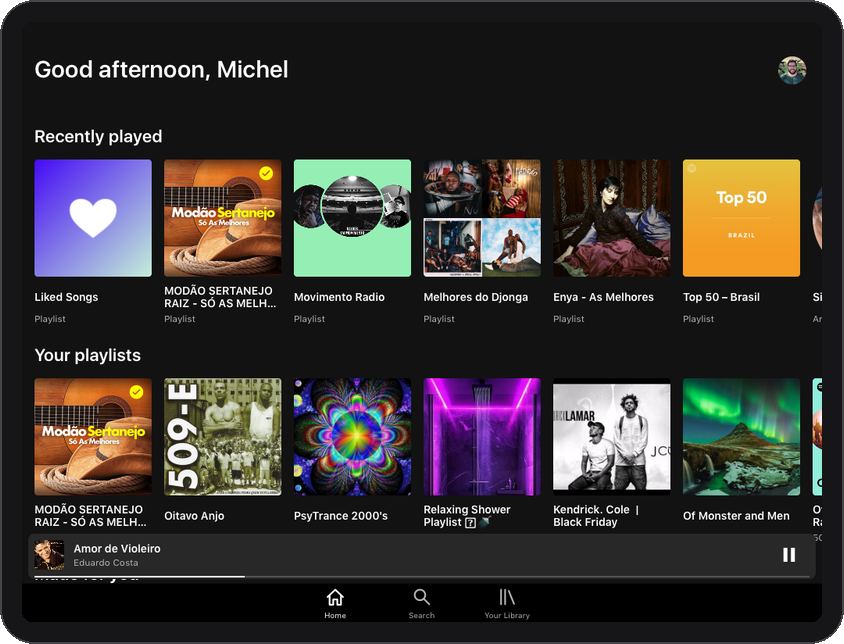
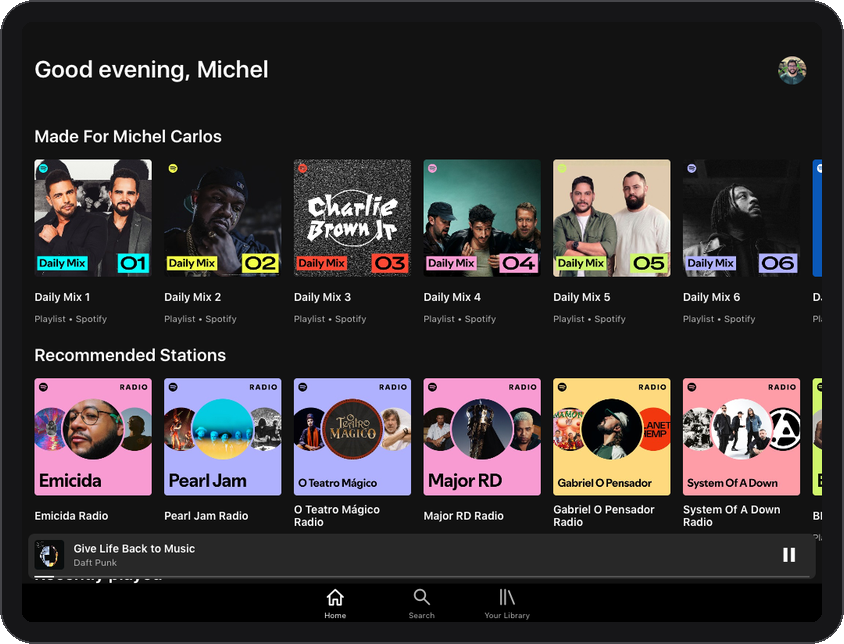
Screenshots: Spotify Home feed, Library with filters, search results with playlists

diff --git a/README.md b/README.md
@@ -47,7 +47,7 @@ installed list.
 
 | Home | Search |
 |---|---|
-| ![Home](docs/screenshots/home.png) | ![Search](docs/screenshots/search-browse.png) |
+| ![Home](docs/screenshots/home.png) | ![Search](docs/screenshots/search-results.png) |
 
 | Album | Your Library |
 |---|---|
